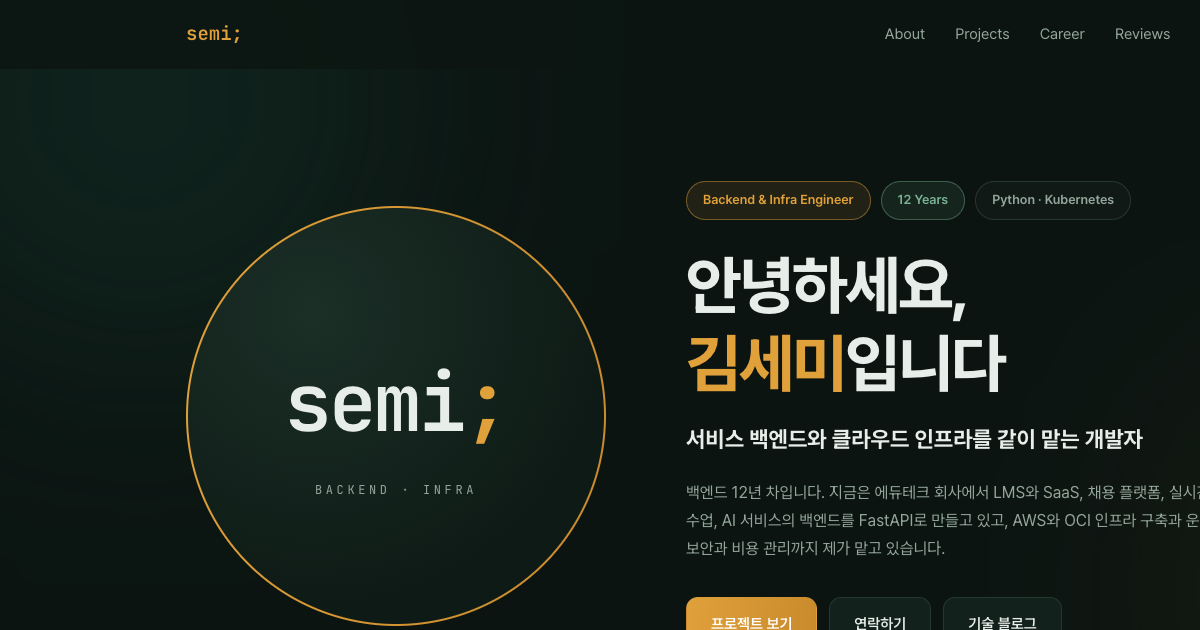
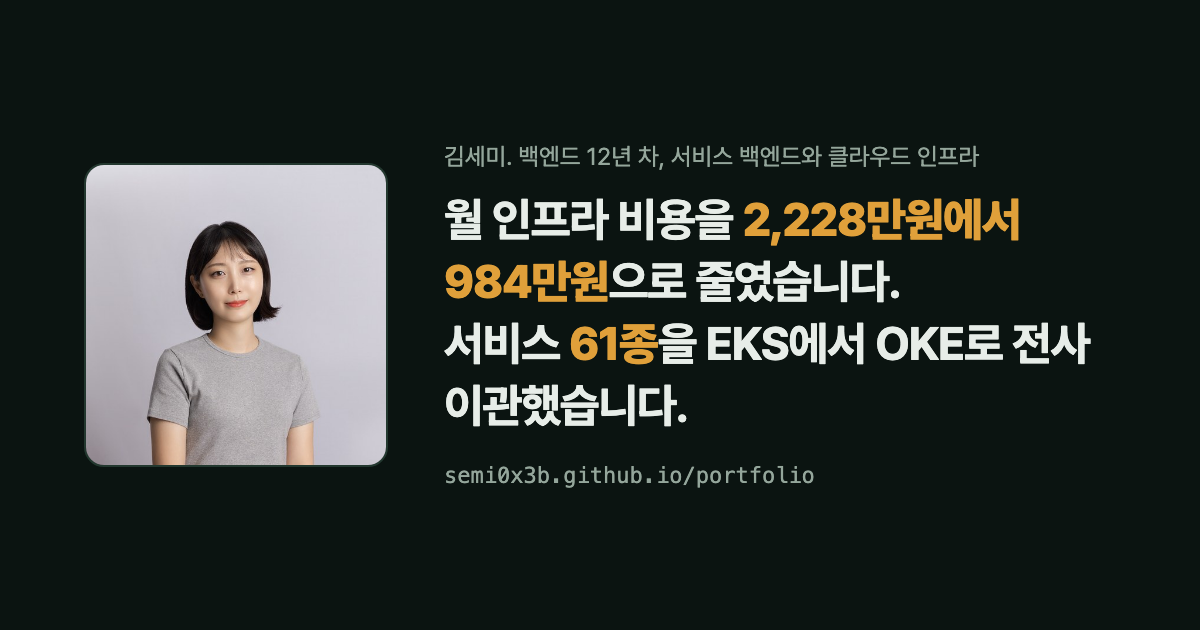
portfolio: 히어로에 프로필 사진 추가하고 og 이미지를 새 히어로 기준으로 재생성

diff --git a/index.html b/index.html
@@ -56,7 +56,9 @@ img, video { display: block; max-width: 100%; }
 /* hero */
 .hero { padding-block: clamp(48px, 8vw, 96px) clamp(40px, 6vw, 72px); }
 .hero-text { max-width: 46em; margin-bottom: clamp(36px, 5vw, 56px); }
-.hero .who { margin: 0 0 22px; font-size: 15px; color: var(--muted); }
+.hero .id { display: flex; align-items: center; gap: 16px; margin: 0 0 26px; }
+.hero .id img { width: 88px; height: 88px; border-radius: 12px; border: 1px solid var(--line); object-fit: cover; flex: none; }
+.hero .who { margin: 0; font-size: 15px; color: var(--muted); }
 .hero h1 { margin: 0 0 24px; font-size: clamp(1.5rem, 3.2vw, 2.5rem); line-height: 1.4; letter-spacing: -.025em; font-weight: 700; text-wrap: balance; }
 .hero h1 span { display: block; }
 .hero h1 span + span { margin-top: .35em; }
@@ -178,7 +180,10 @@ dialog button { font: 600 14px var(--sans); background: var(--card); color: var(
 
 <header class="hero wrap" id="top">
   <div class="hero-text">
-    <p class="who">김세미. 백엔드 12년 차로, 서비스 백엔드와 클라우드 인프라를 같이 맡습니다.</p>
+    <div class="id">
+      <img src="assets/profile.jpg" alt="김세미 프로필 사진" width="512" height="512">
+      <p class="who">김세미. 백엔드 12년 차로, 서비스 백엔드와 클라우드 인프라를 같이 맡습니다.</p>
+    </div>
     <h1>
       <span>월 인프라 비용을 <b>2,228만원에서 984만원</b>으로 줄였습니다.</span>
       <span>서비스 <b>61종</b>을 EKS에서 OKE로 전사 이관했습니다.</span>
